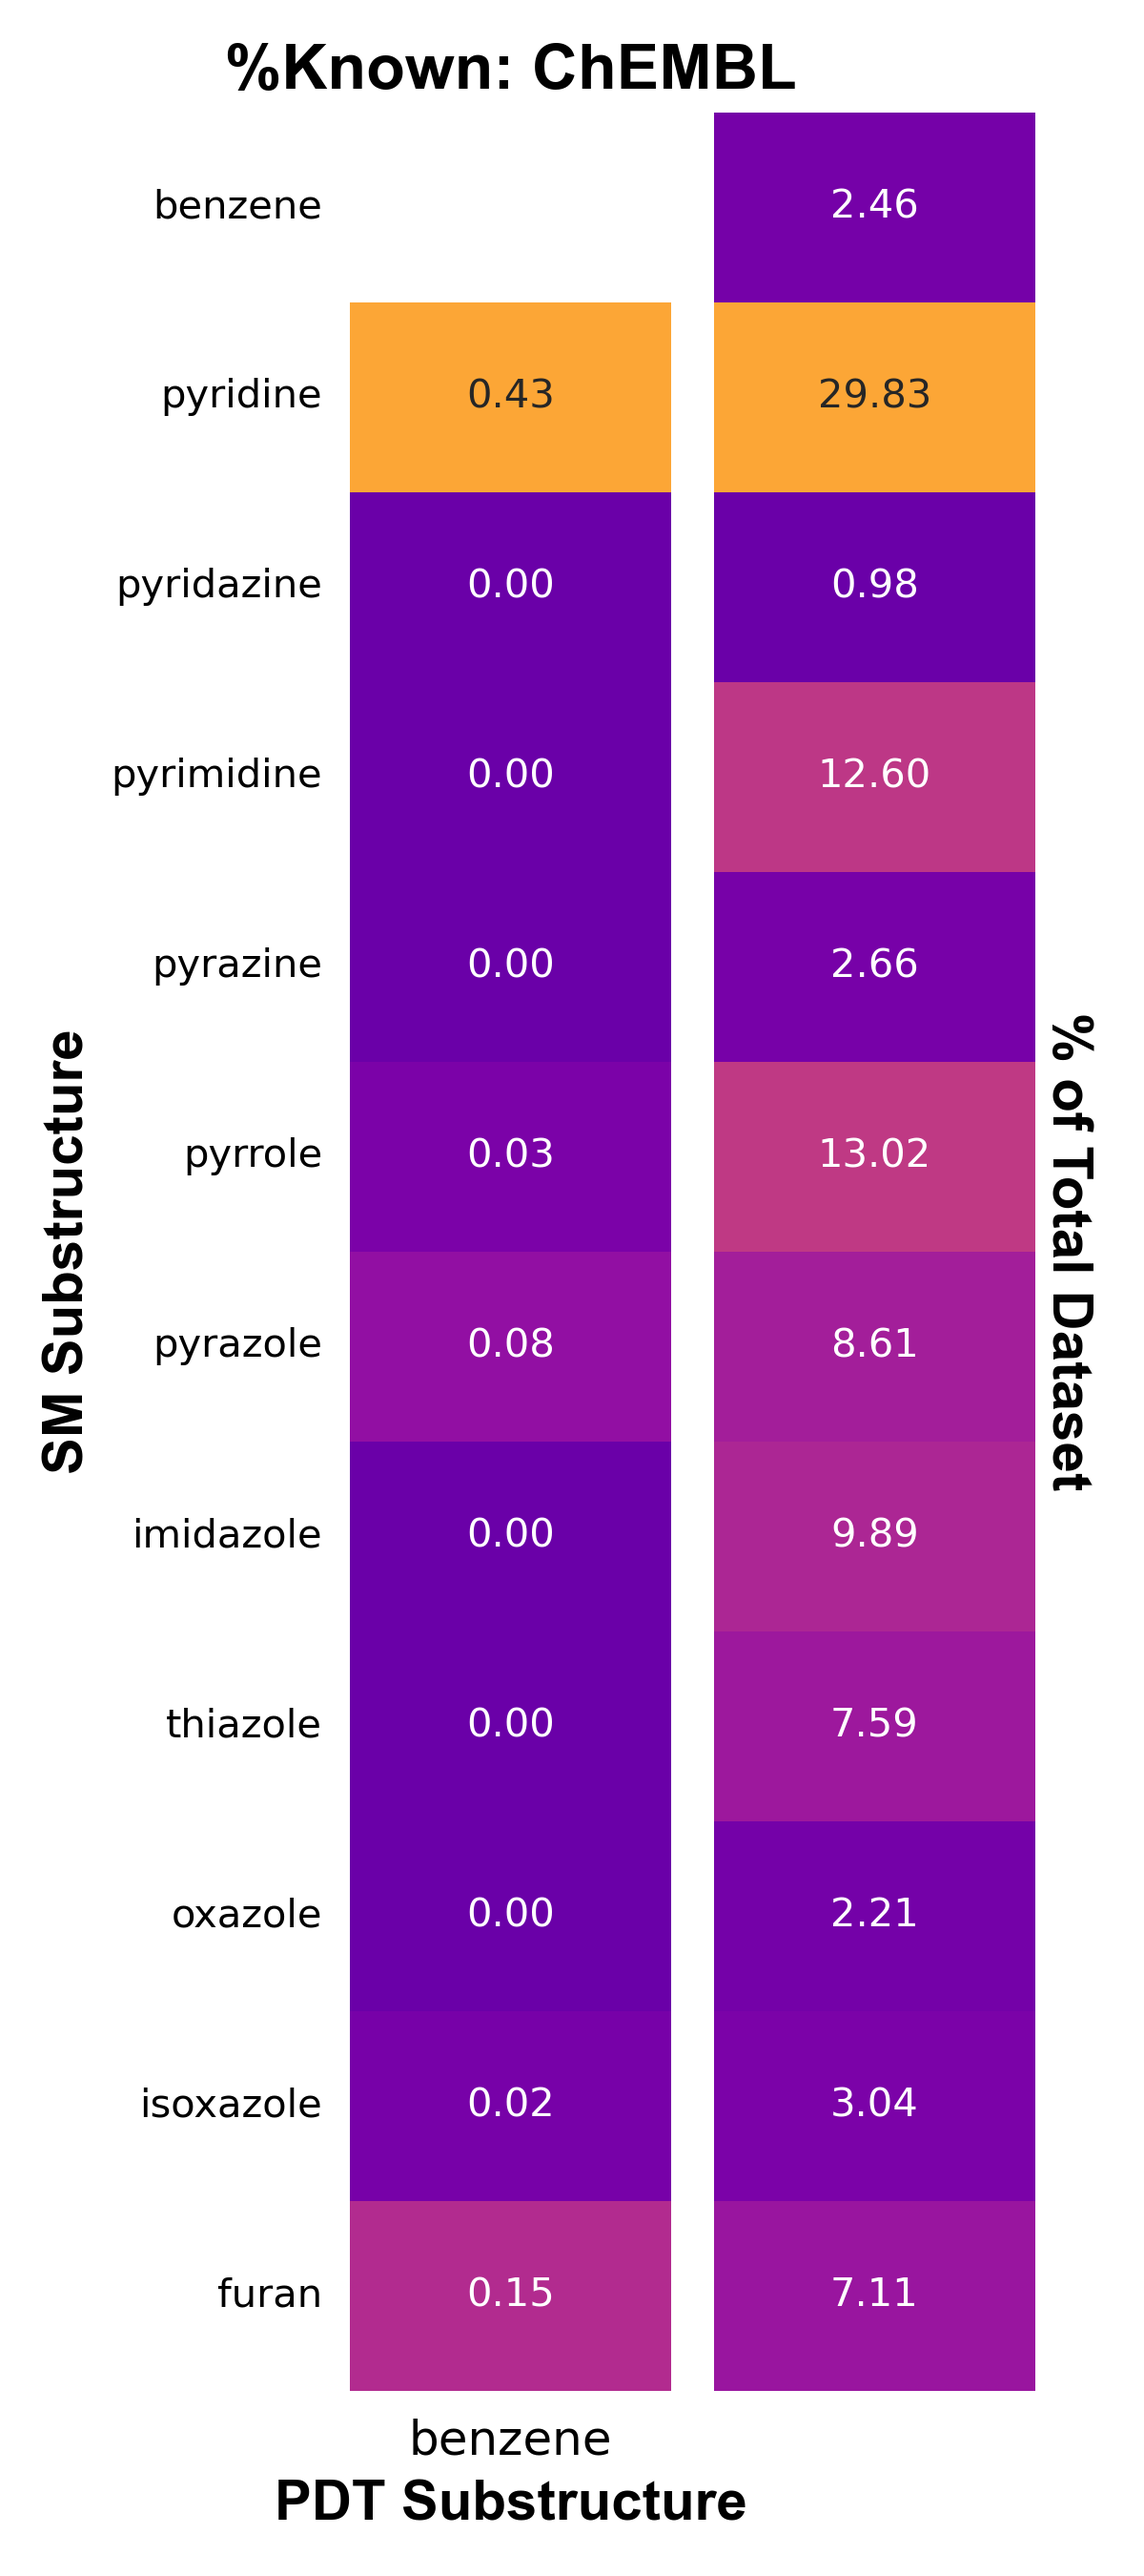
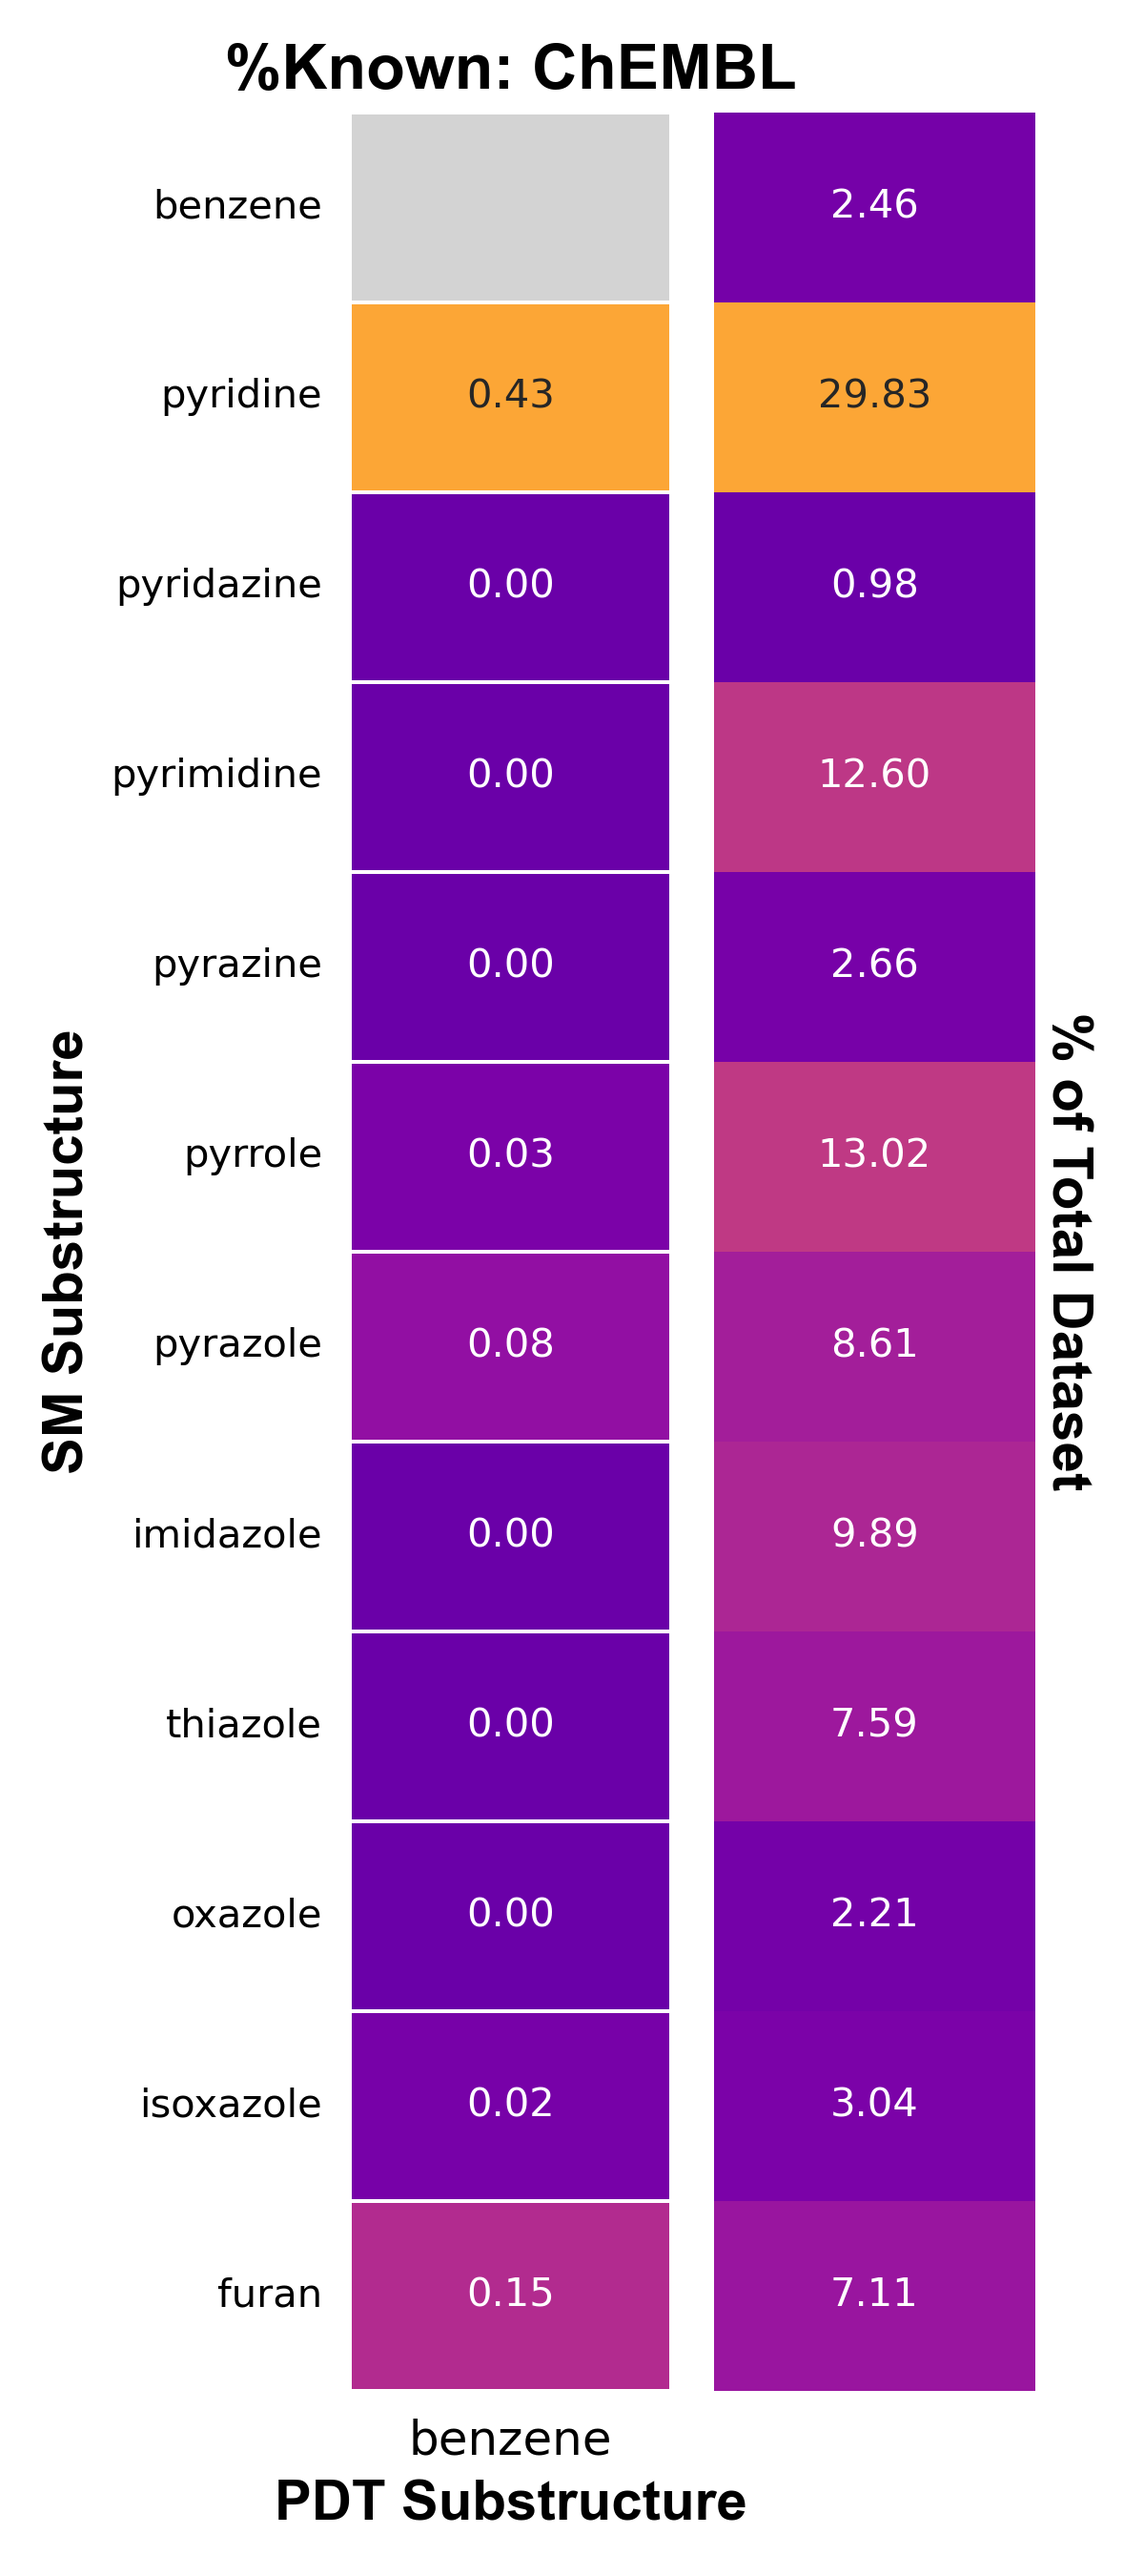
added selecetd value heatmaps

Changed region(s): [[0.3083, 0.0311, 0.5858, 0.1244]]

diff --git a/databases/results/selected_dfs_analysis/heatmap_from_csv.py b/databases/results/selected_dfs_analysis/heatmap_from_csv.py
@@ -1,0 +1,69 @@
+import os
+import time
+import multiprocessing
+import sys
+import numpy as np
+import pandas as pd
+import seaborn as sns
+import matplotlib.pyplot as plt
+from matplotlib.colors import ListedColormap # makes nice colors for heatmap
+from matplotlib.colors import LinearSegmentedColormap # makes nice colors for heatmap
+import cmasher as cmr # for truncating colormaps for softer colors
+
+# import seaborn and matplotlib for heatmap generation
+import seaborn as sns
+import matplotlib.pyplot as plt
+
+# changes the working directory to the directory this script is located in
+import os
+path = str(__file__)
+os.chdir(os.path.dirname(os.path.abspath(path)))
+
+
+def GenerateHeatmap(dataframe, title, filename, directory):
+    # Define figure size
+    plt.figure(figsize=(16, 9))
+
+    # Define colormap (adjust as needed)
+    cmap = cmr.get_sub_cmap('plasma', 0.2, 0.8)
+    cmap.set_bad(color='lightgrey')  # Set color for missing data (None)
+
+
+    # Create heatmap of the dataframe
+    sns.heatmap(dataframe,
+                annot=True,
+                cmap=cmap,
+                linewidths=0.5,
+                fmt=".2f",
+                annot_kws={"size": 10},
+                cbar=False,  # Add color bar or not
+                cbar_kws={'orientation': 'horizontal'})  # Horizontal color bar
+
+    # Define font family
+    fontfamily = 'Arial'
+
+    # Customize plot appearance
+    plt.title(title, fontsize=16, fontweight="bold", fontfamily=fontfamily)
+    plt.xlabel('PDT Substructure', fontsize=14, fontweight="bold", fontfamily=fontfamily)
+    plt.ylabel('SM Substructure', fontsize=14, fontweight="bold", fontfamily=fontfamily)
+    plt.xticks(rotation=45, fontsize=12)
+
+    # Adjust layout for better appearance
+    plt.tight_layout()
+
+    # Save the plot as a file
+    save_path = f'{directory}/{filename}'
+    plt.savefig(save_path, dpi=300)
+    plt.close()  # Close the plot to release memory
+
+
+# Specify the file path of the CSV file
+csv_file_name = 'percent_common_df_enamine_select.csv'
+
+# Read the CSV file into a DataFrame
+df = pd.read_csv(csv_file_name, index_col = 0)
+
+GenerateHeatmap(df,
+                'Selected Enamine 350/3 Library Results: %Known',
+                'selected_enamine_percent_known.png',
+                'selected_heatmaps')

diff --git a/databases/results/final_analysis_benzene_to_products.py b/databases/results/final_analysis_benzene_to_products.py
@@ -192,6 +192,8 @@ def GenerateHeatmap(dataframe, title, filename, sm_df, directory):
     # see https://seaborn.pydata.org/tutorial/color_palettes.html for more info
     # cmasher used to generated a sub-map so the colors aren't so harsh
     cmap = cmr.get_sub_cmap('plasma', 0.2, 0.8)
+    cmap.set_bad(color='lightgrey')  # Set color for missing data (None)
+
 
     # Create a grid with different widths for subplots
     gs = plt.GridSpec(1, 2, width_ratios=[1, 1])
@@ -201,7 +203,7 @@ def GenerateHeatmap(dataframe, title, filename, sm_df, directory):
     sns.heatmap(dataframe, 
                 annot=True,
                 cmap=cmap,
-                linewidths=0, 
+                linewidths=0.5, 
                 fmt=".2f", 
                 annot_kws={"size": 10},
                 cbar=False,

diff --git a/databases/results/final_analysis.py b/databases/results/final_analysis.py
@@ -207,13 +207,15 @@ def GenerateHeatmap(dataframe, title, filename, sm_df, directory):
 
     # Create a grid with different widths for subplots
     gs = plt.GridSpec(1, 2, width_ratios=[12, 1])
+    cmap.set_bad(color='lightgrey')  # Set color for missing data (None)
+
 
     # Create heatmap of results
     ax1 = plt.subplot(gs[0])
     sns.heatmap(dataframe, 
                 annot=True,
                 cmap=cmap,
-                linewidths=0, 
+                linewidths=0.5, 
                 fmt=".2f", 
                 annot_kws={"size": 10},
                 cbar=False,
